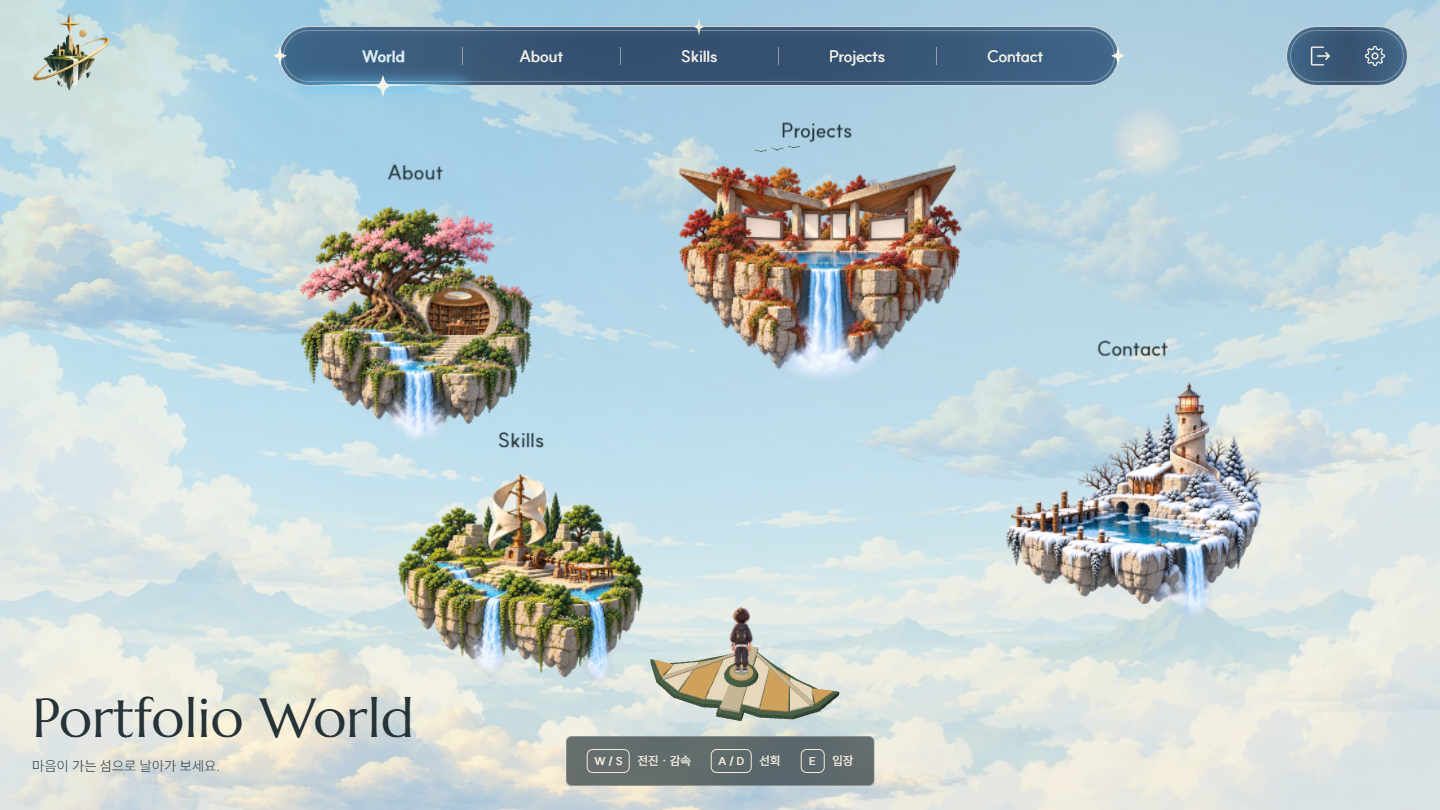
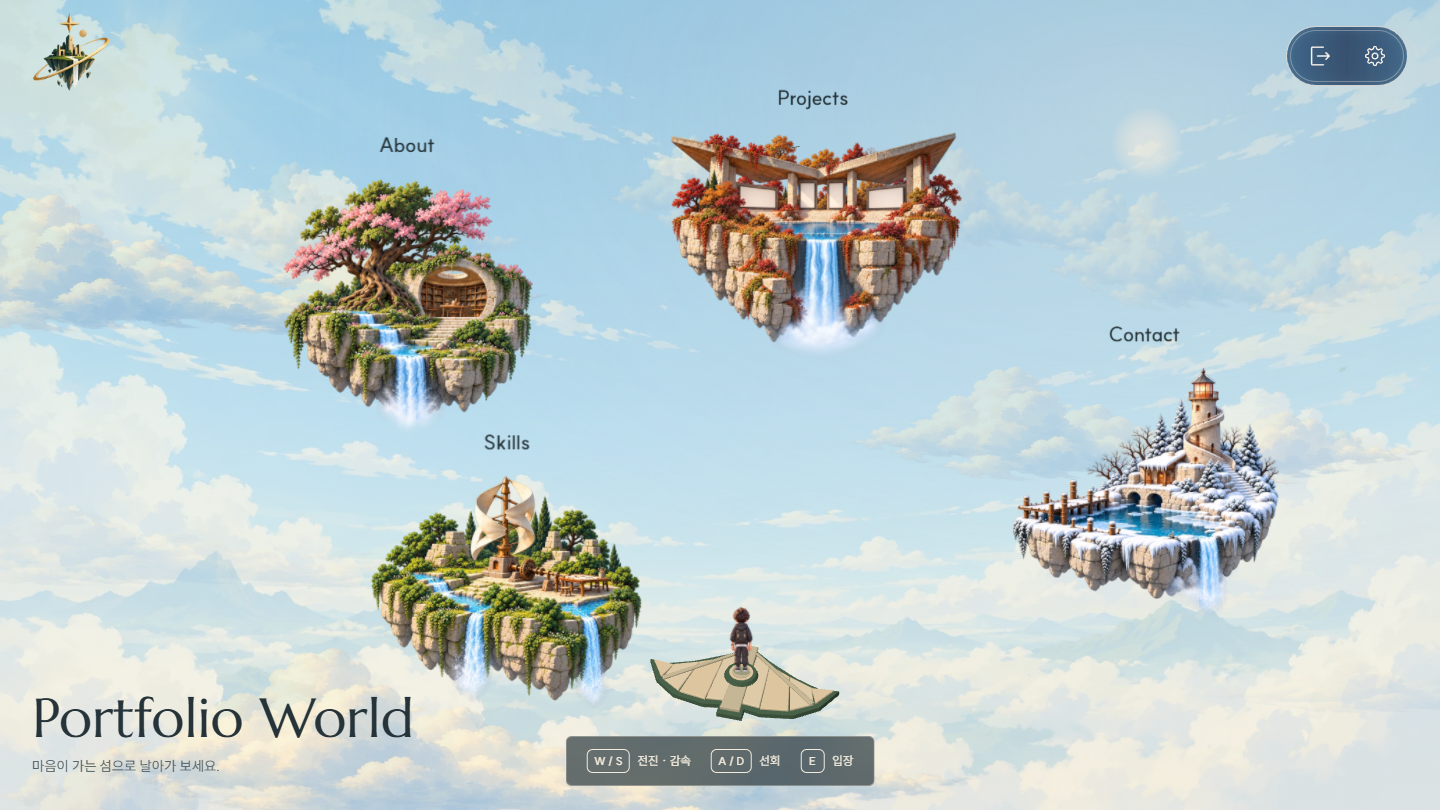
Add matte seasonal scenes and refine world layout and ambient motion

diff --git a/src/pages/Contact/ConnectScene.jsx b/src/pages/Contact/ConnectScene.jsx
@@ -1,3 +1,4 @@
+import SeasonalAtmosphere from '../../components/SeasonalAtmosphere.jsx'
 import { useEffect, useLayoutEffect, useRef, useState } from 'react'
 import useGalleryWalk from '../Projects/useGalleryWalk.js'
 
@@ -68,7 +69,8 @@ export default function ConnectScene({ blocked, still, hidden, signal }) {
   const pose = walk.player.view
   return <div className="connect-night-scene" ref={scene} data-failed={failed} aria-hidden="true" onPointerDown={walkTo}>
     <div className="connect-environment-layers" data-blocked={blocked}>
-    <picture className="connect-night-art"><source media="(max-width:767px)" srcSet={root + 'contact/connect-night-clean-mobile-v3.webp'}/><img src={root + 'contact/connect-night-clean-v3.webp'} alt="" fetchPriority="high" onError={() => setFailed(true)}/></picture>
+    <picture className="connect-night-art"><source media="(max-width:767px)" srcSet={root + 'contact/connect-winter-mobile-v1.webp'}/><img src={root + 'contact/connect-winter-v1.webp'} alt="" fetchPriority="high" onError={() => setFailed(true)}/></picture>
+    <SeasonalAtmosphere season="winter" still={still || hidden || blocked} />
     <div className="connect-night-stars">{stars.map(({x,y,size,duration}, i) => <i key={i} style={{ left:x+'%', top:y+'%', width:size, height:size, animationDelay:-i*1.3+'s', animationDuration:duration+'s' }}/>)}</div>
     <div className="connect-meteors">{[0, 1, 2].map(i => <i key={i} className={'connect-meteor meteor-' + i}/>)}</div>
     <svg className="connect-constellation" viewBox="0 0 240 150" fill="none">
@@ -91,7 +93,7 @@ export default function ConnectScene({ blocked, still, hidden, signal }) {
     <div className="connect-night-clouds"><img src={root + 'contact/connect-cloud.webp'} alt="" onError={e => { e.currentTarget.hidden = true }}/><img src={root + 'contact/connect-cloud.webp'} alt="" onError={e => { e.currentTarget.hidden = true }}/></div>
     <div className="connect-walk-plane" ref={plane}>
       {!failed && <div className="connect-sunset-light"><i/><i/><i/></div>}
-      {!failed && <picture className="connect-water-texture"><source media="(max-width:767px)" srcSet={root + 'contact/connect-night-clean-mobile-v3.webp'}/><img src={root + 'contact/connect-night-clean-v3.webp'} alt="" onError={event => { event.currentTarget.hidden = true }}/></picture>}
+      {!failed && <picture className="connect-water-texture"><source media="(max-width:767px)" srcSet={root + 'contact/connect-winter-mobile-v1.webp'}/><img src={root + 'contact/connect-winter-v1.webp'} alt="" onError={event => { event.currentTarget.hidden = true }}/></picture>}
       {!failed && <svg className="connect-water-light" viewBox="0 0 1672 941" fill="none">
         <defs><clipPath id="connect-open-water"><path clipRule="evenodd" d="M737 717L805 718L867 751L1030 780L1018 841L952 853L921 831L901 837L871 820L836 829L805 813L796 789L771 759Z M809 803L824 777L845 763L868 774L883 793L905 808L864 819L824 817Z"/></clipPath></defs>
         <g clipPath="url(#connect-open-water)">

diff --git a/src/pages/About/StudioAtmosphere.jsx b/src/pages/About/StudioAtmosphere.jsx
@@ -11,18 +11,20 @@ void main(){
   vec2 p=vec2(uv.x,1.0-uv.y);
   vec4 base=texture2D(picture,uv);
   float green=smoothstep(-0.015,0.045,base.g-base.r*0.96)*smoothstep(0.025,0.10,base.g-base.b);
-  float plants=max(area(p,vec2(0.26,0.09),vec2(0.30,0.22)),area(p,vec2(0.40,0.33),vec2(0.10,0.20)));
+  float plants=area(p,vec2(0.40,0.33),vec2(0.10,0.20));
   plants=max(plants,area(p,vec2(0.27,0.48),vec2(0.12,0.10)));
   plants=max(plants,area(p,vec2(0.72,0.30),vec2(0.12,0.21)));
   plants=max(plants,area(p,vec2(0.73,0.71),vec2(0.10,0.15)));
   plants=max(plants,area(p,vec2(0.87,0.49),vec2(0.09,0.10)));
   plants=max(plants,area(p,vec2(0.25,0.79),vec2(0.12,0.16)));
+  // Keep the entire upper-left tree rigid, including warm-colored bark.
+  float outsideTree=max(smoothstep(0.48,0.54,p.x),smoothstep(0.53,0.60,p.y));
   float wind=sin(time*1.35+p.y*19.0)+0.35*sin(time*2.1+p.x*27.0);
-  vec2 offset=vec2(wind*0.0035,sin(time*1.2+p.x*20.0)*0.0012)*plants*green;
+  vec2 offset=vec2(wind*0.0035,sin(time*1.2+p.x*20.0)*0.0012)*plants*green*outsideTree;
   gl_FragColor=texture2D(picture,clamp(uv+offset,0.001,0.999));
 }`
 
-// Only green foliage is displaced. Architecture, objects and HTML hit areas stay fixed.
+// Only small plants outside the upper-left tree move. The tree and architecture stay fixed.
 // The original <img> underneath is always available if WebGL cannot render.
 function FoliageWind({ running }) {
   const canvas = useRef(null), controls = useRef(null)
@@ -98,7 +100,7 @@ export default function StudioAtmosphere({ running }) {
       <img className="studio-cloud studio-cloud-front" src={cloud} alt="" />
       <img className="studio-cloud studio-cloud-back" src={cloud} alt="" />
     </div>
-    <div className="studio-sunlight"><div className="studio-cloud-shadow" /><div className="studio-light-shaft" /></div>
+    <div className="studio-sunlight"><div className="studio-cloud-shadow" /></div>
     <svg className="studio-cup-steam" viewBox="0 0 60 110" focusable="false">
       <path className="studio-steam-one" d="M27 104C9 83 48 71 29 52S16 23 29 3" />
       <path className="studio-steam-two" d="M40 108C54 90 20 76 37 54S45 25 37 11" />

diff --git a/src/pages/Projects/ProjectAtmosphere.css b/src/pages/Projects/ProjectAtmosphere.css
@@ -32,3 +32,18 @@
 .projects-world[data-still=true] :is(.pw-water-glints,.pw-falls-light i,.pw-sky-cloud,.pw-airship-route,.pw-airship,.pw-bird-flock,.pw-wing,.pw-leaf-route,.pw-flying-leaf){animation-play-state:paused}
 @media(max-width:767px),(max-width:1023px) and (orientation:portrait){.pw-sky-cloud-far,.pw-leaf-route:nth-child(n+4){display:none}}
 @media(prefers-reduced-motion:reduce){.pw-water-glints,.pw-falls-light i,.pw-sky-cloud,.pw-airship-route,.pw-airship,.pw-bird-flock,.pw-wing,.pw-leaf-route,.pw-flying-leaf{animation:none}.pw-wind-leaves,.pw-bird-flock,.pw-water-glints,.pw-falls-light{display:none}.pw-airship-route{left:55%;transform:none}}
+/* Local water-only texture movement; buildings and walking paths remain fixed. */
+.pw-water-motion{position:absolute;inset:0;z-index:2;pointer-events:none;overflow:hidden}
+.pw-water-motion img{width:100%;height:100%;object-fit:fill;animation:pw-river-flow 4s ease-in-out infinite alternate}
+.pw-river-motion{clip-path:polygon(0 62%,3% 64%,10% 65%,14% 67%,21% 69%,30% 70%,33% 73%,32% 76%,24% 76%,21% 79%,17% 81%,11% 74%,6% 70%,0 70%)}
+.pw-cascade-upper{clip-path:polygon(7.2% 13.4%,8.1% 13.4%,9.1% 24.7%,7.5% 24.7%)}
+.pw-cascade-lower{clip-path:polygon(7.6% 35.7%,8.8% 35.7%,9.4% 44%,7.6% 44%)}
+.pw-cascade-motion img{animation:pw-cascade-flow 1.3s linear infinite}
+@keyframes pw-river-flow{from{transform:translate(-2px,-1px)}to{transform:translate(3px,2px)}}
+@keyframes pw-cascade-flow{from{transform:translateY(-2px)}to{transform:translateY(3px)}}
+.pw-water-glints{opacity:.3;mix-blend-mode:normal;animation-duration:3.8s}
+.pw-falls-light i{width:34%;filter:blur(.4px)}
+.projects-world[data-still=true] .pw-water-motion img{animation-play-state:paused}
+.projects-world .pw-stage{filter:saturate(.94)}
+.projects-world .pw-sunset{opacity:0!important}
+@media(prefers-reduced-motion:reduce){.pw-water-motion{display:none}}

diff --git a/src/pages/Projects/ProjectAtmosphere.jsx b/src/pages/Projects/ProjectAtmosphere.jsx
@@ -13,13 +13,16 @@ const leaves = [
   { top:56, delay:-25, duration:32, size:7 },
 ]
 // Reuse the leaf and bird silhouettes from WorldAtmosphere. The landscape
-// itself stays fixed: no copied image patches, displacement, or scaling.
+// stays fixed outside the masked river and waterfall surfaces.
 const leafContours = [
   'M1 10 6 7 5 5 10 5 12 2 15 3 29 1 24 6 25 8 21 9 19 12 15 11 11 14 8 12Z',
   'M1 12 9 6 15 4 29 1 23 6 19 10 12 12 7 11Z',
 ]
 export default function ProjectAtmosphere({ sunset = 0 }) {
   return <>
+    <div className="pw-water-motion pw-river-motion" aria-hidden="true"><img src="/assets/production/images/projects-world/valley-roads-v3.webp" alt="" /></div>
+    <div className="pw-water-motion pw-cascade-motion pw-cascade-upper" aria-hidden="true"><img src="/assets/production/images/projects-world/valley-roads-v3.webp" alt="" /></div>
+    <div className="pw-water-motion pw-cascade-motion pw-cascade-lower" aria-hidden="true"><img src="/assets/production/images/projects-world/valley-roads-v3.webp" alt="" /></div>
     {water.map(([x,y,w,h],i)=><div key={`water-${i}`} className="pw-lake-surface" aria-hidden="true" style={{left:`${x}%`,top:`${y}%`,width:`${w}%`,height:`${h}%`,'--water-delay':`${-i*2.1}s`}}><div className="pw-water-glints" /><div className="pw-water-glints pw-water-return" /></div>)}
     {falls.map(([x,y,w,h],i)=><div key={`fall-${i}`} className="pw-falls-light" aria-hidden="true" style={{left:`${x}%`,top:`${y}%`,width:`${w}%`,height:`${h}%`}}>{[0,1,2].map(j=><i key={j} style={{left:`${j*33}%`,'--fall-delay':`${-j*.71-i*.32}s`,'--fall-time':`${1.6+j*.4}s`}} />)}</div>)}
     <div className="pw-sun" aria-hidden="true" style={{opacity:.85-sunset*.18}}><span /></div>

diff --git a/src/components/SeasonalAtmosphere.css b/src/components/SeasonalAtmosphere.css
@@ -1,0 +1,14 @@
+.seasonal-atmosphere{position:absolute;inset:0;overflow:hidden;pointer-events:none;z-index:2}
+.season-particle{position:absolute;top:-24px;width:var(--size);height:var(--size);animation:season-fall var(--duration) linear var(--delay) infinite;background:var(--ivory);opacity:0;border-radius:50%}
+.season-spring .season-particle{background:color-mix(in srgb,var(--ivory) 70%,var(--connect-peach,var(--warm-accent)));border-radius:80% 10% 80% 35%;height:calc(var(--size)*.65)}
+.season-winter .season-particle{background:var(--cloud);filter:blur(.3px)}
+.season-mist{position:absolute;inset:55% -20% -10%;background:radial-gradient(ellipse,color-mix(in srgb,var(--cloud) 28%,transparent),transparent 65%);animation:season-mist 13s ease-in-out infinite alternate}
+.season-spring .season-mist{opacity:.3}
+.season-cave .season-mist{inset:50% -25% 5%;opacity:.55}
+.season-cave .season-particle{left:12%;width:1px;height:10px;background:var(--sky-100);animation-name:season-drip;opacity:0}
+@keyframes season-fall{0%{transform:translate3d(0,-20px,0) rotate(0);opacity:0}8%,85%{opacity:.8}100%{transform:translate3d(var(--drift),100vh,0) rotate(280deg);opacity:0}}
+@keyframes season-drip{0%,65%{transform:translateY(0);opacity:0}70%{opacity:.45}85%,100%{transform:translateY(65vh);opacity:0}}
+@keyframes season-mist{from{transform:translateX(-4%)}to{transform:translateX(9%)}}
+.seasonal-atmosphere[data-still=true] *{animation-play-state:paused!important}
+@media(max-width:767px){.season-particle:nth-child(n+17){display:none}}
+@media(prefers-reduced-motion:reduce){.seasonal-atmosphere *{animation:none!important}.season-particle{display:none}}

diff --git a/src/pages/Skills/SkillsCore.jsx b/src/pages/Skills/SkillsCore.jsx
@@ -1,3 +1,4 @@
+import SeasonalAtmosphere from '../../components/SeasonalAtmosphere.jsx'
 import { useEffect, useRef, useState } from 'react'
 import { Link } from 'react-router-dom'
 import { gsap } from 'gsap'
@@ -100,8 +101,9 @@ export default function SkillsCore() {
   }
   return <main id="main" className="skills-world skills-core" data-still={still} data-panel={open} data-orbit={orbitActive}>
     <div className="sc-stage" ref={stage} tabIndex="-1" aria-label="Skills 공간. WASD 이동, 코어 근처에서 E로 할 수 있는 일 펼치기">
-      <img className="sc-background" src="/assets/production/images/skills-world/courtyard-v3.webp" alt="" fetchPriority="high" onError={event => { event.currentTarget.hidden = true }} />
+      <img className="sc-background" src="/assets/production/images/skills-world/cave-summer-v1.webp" alt="" fetchPriority="high" onError={event => { event.currentTarget.hidden = true }} />
       <div className="sc-atmosphere" aria-hidden="true" />
+      <SeasonalAtmosphere season="cave" still={still} />
       <button className="sc-floor" aria-label="바닥을 클릭해 이동" onClick={walk} />
       <button ref={core} className="sc-core" aria-label="Skill Core 공전 펼치기 또는 접기" aria-expanded={orbitActive} aria-controls="sc-orbit" onClick={toggleCore} data-near={near} data-failed={imageFailed}>
         <img className="sc-core-art" src="/assets/production/images/skills-world/relic-core-v3.webp" alt="" onError={() => setImageFailed(true)} />

diff --git a/src/pages/Skills/SkillsCore.css b/src/pages/Skills/SkillsCore.css
@@ -126,4 +126,5 @@ body:has(.skills-core){overflow:hidden}
 @media(min-width:1920px){.skills-core .sc-intro{top:128px;left:64px;right:64px}}
 @media(max-width:1023px){.skills-core .sc-intro{top:104px;left:32px;right:32px}}
 @media(max-width:767px){.skills-core .sc-intro{top:104px;left:20px;right:20px}.skills-core .sc-intro p{font-size:15px}.skills-core .sc-core{bottom:24%}}
-@media(max-height:600px){.skills-core .sc-intro{top:88px}.portfolio-experience .skills-core .sc-intro h1{font-size:32px;margin-bottom:8px}.skills-core .sc-intro p{font-size:15px}.skills-core .sc-core{bottom:24%}}
+@media(max-height:600px){.skills-core .sc-intro{top:88px}.portfolio-experience .skills-core .sc-intro h1{font-size:32px;margin-bottom:8px}.skills-core .sc-intro p{font-size:15px}.skills-core .sc-core{bottom:24%}}/* A matte local reading surface over the cave wall, without changing title placement. */
+@media(min-width:768px){.skills-core .sc-intro{isolation:isolate}.portfolio-experience .skills-core .sc-intro :is(h1,p){color:var(--cloud)}.skills-core .sc-intro:before{content:'';position:absolute;inset:-16px auto -16px -48px;width:460px;z-index:-1;pointer-events:none;background:linear-gradient(90deg,color-mix(in srgb,var(--surface-dark) 60%,transparent) 0%,color-mix(in srgb,var(--surface-dark) 45%,transparent) 70%,transparent);mask-image:linear-gradient(transparent,black 18%,black 82%,transparent)}}

diff --git a/src/pages/Skills/skillCapabilities.js b/src/pages/Skills/skillCapabilities.js
@@ -24,7 +24,7 @@ export const skillCapabilities = [
     lead: 'AI로 초안을 만들고, 직접 확인하며 다듬습니다.',
     description: '아이디어 정리와 그림·코드 초안에 도움을 받고, 의도한 디자인과 실제 동작에 맞는지 확인합니다.',
     work: '이 포트폴리오의 배경에는 생성 이미지를 사용했습니다. 메뉴와 버튼, 글은 이미지와 분리해 실제로 작동하도록 구현했습니다.',
-    image: '/assets/production/images/skills-world/courtyard-v3.webp', imageAlt: 'Skills 공간에 실제 사용한 낮의 석재 안뜰 배경', caption: '현재 페이지에 사용한 생성 배경',
+    image: '/assets/production/images/skills-world/cave-summer-v1.webp', imageAlt: 'Skills 공간에 실제 사용한 낮의 석재 안뜰 배경', caption: '현재 페이지에 사용한 생성 배경',
     method: 'ChatGPT와 Claude로 요구사항·아이디어를 정리하고, Claude Code로 구현과 오류 점검을 보조합니다. Higgsfield는 시각 자산과 장면 참고에 활용합니다. 결과물은 그대로 확정하지 않고 확인합니다.', portfolio: true },
   { id: 'git', name: '함께 작업하기', tools: 'Git · GitHub',
     lead: '수정 기록을 남기고, 팀의 코드를 합칩니다.',

diff --git a/src/pages/About/About.jsx b/src/pages/About/About.jsx
@@ -1,3 +1,4 @@
+import SeasonalAtmosphere from '../../components/SeasonalAtmosphere.jsx'
 import { useCallback, useEffect, useRef, useState } from 'react'
 import { Link } from 'react-router-dom'
 import { usePortfolioUI } from '../../app/PortfolioUIContext.jsx'
@@ -102,6 +103,7 @@ export default function About() {
         {!imageFailed && <StudioAtmosphere key={studioRoom} running={!reduced && !hidden && visible && selected === null} />}
         {!imageFailed && <StudioItemLights active={active} selected={selected !== null} />}
         <button ref={floor} className="studio-floor" type="button" aria-label="작업실 바닥: WASD 또는 방향키로 이동" aria-describedby="studio-help" onClick={moveOnFloor} onBlur={stop} />
+        <SeasonalAtmosphere season="spring" still={reduced || hidden || !visible || selected !== null} />
         <StudioExplorer player={player} still={reduced || hidden || !visible || selected !== null} />
       </div>
         <div className="studio-objects" aria-label="작업실의 다섯 이야기">

diff --git a/src/scenes/PortfolioWorld/flightScene.js b/src/scenes/PortfolioWorld/flightScene.js
@@ -5,10 +5,10 @@ import { createWingCraft } from './createWingCraft.js'
 import { createWingTrails } from './createWingTrails.js'
 
 export const flightPlaces = [
-  { id: 'about', x: -19, y: 4, z: -8, size: 15.5, artTop: .0234 },
-  { id: 'skills', x: -9.5, y: -1.2, z: 11, size: 12, artTop: .1029 },
-  { id: 'projects', x: 7, y: 5, z: -19, size: 21, artTop: .181 },
-  { id: 'contact', x: 22, y: -.5, z: 5, size: 13.7, artTop: .0534 },
+  { id: 'about', x: -20, y: 4.5, z: -10, size: 17, artTop: .0234 },
+  { id: 'skills', x: -10, y: -1.2, z: 12, size: 13, artTop: .1029 },
+  { id: 'projects', x: 7, y: 6, z: -23, size: 22.5, artTop: .181 },
+  { id: 'contact', x: 23, y: -.5, z: 4, size: 14.5, artTop: .0534 },
 ]
 const clamp = THREE.MathUtils.clamp
 const angleDelta = (a, b) => Math.atan2(Math.sin(b - a), Math.cos(b - a))

diff --git a/src/components/SeasonalAtmosphere.jsx b/src/components/SeasonalAtmosphere.jsx
@@ -1,0 +1,8 @@
+import './SeasonalAtmosphere.css'
+export default function SeasonalAtmosphere({ season, still = false }) {
+  const count = season === 'winter' ? 32 : season === 'spring' ? 18 : 10
+  return <div className={'seasonal-atmosphere season-' + season} data-still={still} aria-hidden="true">
+    <div className="season-mist"/>
+    {Array.from({length:count},(_,i)=><i key={i} className="season-particle" style={{left:((i*37)%103)+'%', '--duration':(season==='cave'?5+i%5:10+i%9)+'s','--delay':(-i*1.73)+'s','--size':(season==='winter'?2+i%4:5+i%5)+'px','--drift':(30+i%5*25)+'px'}}/>)}
+  </div>
+}

diff --git a/src/pages/Projects/ProjectsRefinement.css b/src/pages/Projects/ProjectsRefinement.css
@@ -1,6 +1,6 @@
 /* One travel menu, open scenery and restrained material contrast. */
 .pw-accessible-title{position:absolute;width:1px;height:1px;padding:0;margin:-1px;overflow:hidden;clip-path:inset(50%);white-space:nowrap}
-.projects-world .pw-stage{filter:saturate(.82)}
+.projects-world .pw-stage{filter:saturate(.94)}
 .projects-world .pw-landscape::before{height:120px}
 .projects-world .pw-landscape::after{height:100px}
 .projects-world .pw-bottom{display:flex;left:32px;right:32px;bottom:max(24px,env(safe-area-inset-bottom));max-width:none;justify-content:space-between;pointer-events:none}
